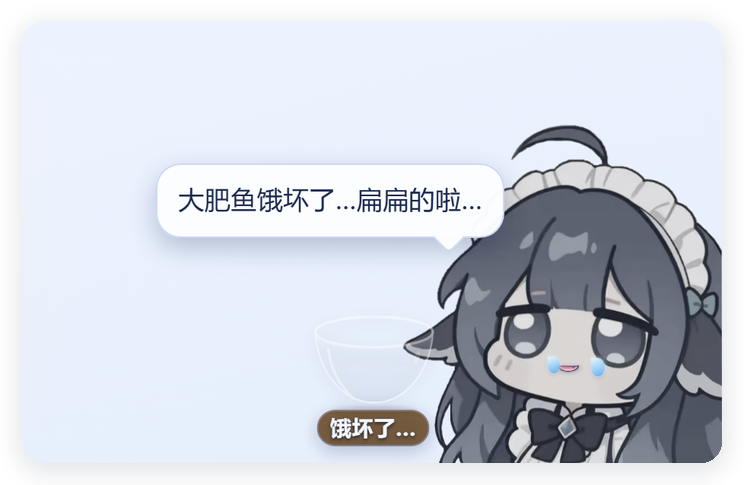
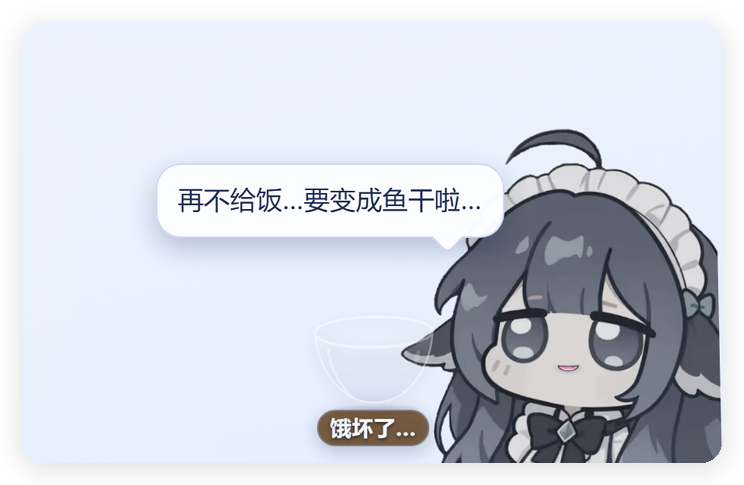
feat: v0.5.5 去掉饿坏了的眼泪（保留灰度/耷拉/标签）

diff --git a/assets/client.js b/assets/client.js
@@ -209,7 +209,6 @@
     starveTimer: null,
     starveLoop: null,
     lastStarve: '',
-    starveDrops: [],
     bubbleTimer: null,
     riceTimer: null,
     pourTimer: null,
@@ -913,36 +912,7 @@
     if (rt.layer) rt.layer.classList.remove('dshwr-beg', 'dshwr-starving');
     var img = hungerImg();
     if (img) img.classList.remove('dshwr-beg-img', 'dshwr-starve-img');
-    removeStarveDrops();
     if (rt.mounted && !rt.eatBusy && !rt.eatQueue.length) setLabel(liveRemain());
-  }
-
-  function removeStarveDrops() {
-    if (!rt.starveDrops || !rt.starveDrops.length) return;
-    for (var i = 0; i < rt.starveDrops.length; i++) {
-      var el = rt.starveDrops[i];
-      if (el && el.parentNode) el.parentNode.removeChild(el);
-    }
-    rt.starveDrops = [];
-  }
-
-  /** 饿坏了：在眼睛下面挂两滴小眼泪 */
-  function spawnStarveDrops() {
-    if (!rt.layer || !rt.els || !rt.mounted) return;
-    removeStarveDrops();
-    layoutMouth();
-    if (!rt.mouth) return;
-    for (var i = 0; i < 2; i++) {
-      var el = document.createElement('span');
-      el.className = 'dshwr-starve-drop';
-      var dx = (i === 0 ? -0.78 : 0.78) * rt.mouth.w;
-      var dy = -rt.mouth.h * (i === 0 ? 0.9 : 0.75);
-      el.style.left = (rt.mouth.x + dx).toFixed(1) + 'px';
-      el.style.top = (rt.mouth.y + dy).toFixed(1) + 'px';
-      el.style.animationDelay = (i * 1.15).toFixed(2) + 's';
-      rt.layer.appendChild(el);
-      rt.starveDrops.push(el);
-    }
   }
 
   function hungerImg() {
@@ -1013,7 +983,6 @@
       img.classList.remove('dshwr-beg-img');
       img.classList.add('dshwr-starve-img');
     }
-    spawnStarveDrops();
     setLabel(0);
     starvePulse();
     if (rt.starveLoop) clearInterval(rt.starveLoop);
@@ -1320,7 +1289,7 @@
     if (!rt.els) return;
     var remaining = liveRemain();
     var tank = tankOf(activeSid());
-    var html = '<div class="dshwr-set-title"><span class="dshwr-unflip">白饭预言家</span><small>v0.5.4</small></div>';
+    var html = '<div class="dshwr-set-title"><span class="dshwr-unflip">白饭预言家</span><small>v0.5.5</small></div>';
     html += setRow('begging', '没饭时讨饭', rt.settings.begging);
     html += setRow('eat', '吃饭动作（嘴 / 嚼）', rt.settings.eat);
     html += setRow('sound', '吃饭音效', rt.settings.sound);

diff --git a/assets/client.css b/assets/client.css
@@ -815,23 +815,6 @@
   32% { transform: translateY(2.1%) rotate(-1.9deg); }
   68% { transform: translateY(2.6%) rotate(1.7deg); }
 }
-.dshwr-starve-drop {
-  position: absolute;
-  z-index: 9;
-  width: 0.5em;
-  height: 0.7em;
-  border-radius: 0 62% 62% 62%;
-  background: linear-gradient(160deg, #eaf8ff, #8ac9f8 65%, #5fa9ee);
-  box-shadow: 0 0 0.14em rgba(255, 255, 255, 0.95), 0 0.05em 0.14em rgba(40, 90, 160, 0.4);
-  opacity: 0.92;
-  pointer-events: none;
-  animation: dshwr-starve-drop 2.4s ease-in infinite;
-}
-@keyframes dshwr-starve-drop {
-  0% { opacity: 0.92; transform: translateY(0) scale(0.9); }
-  65% { opacity: 0.8; transform: translateY(0.62em) scale(1); }
-  100% { opacity: 0; transform: translateY(1.15em) scale(1); }
-}
 .dshwr-starving .dshwr-bowl-svg {
   opacity: 0.5;
   filter: saturate(0.4);

diff --git a/README.md b/README.md
@@ -72,7 +72,7 @@ dsh plugin --profile web add link:C:/path/to/dsh-whale-ricebowl
 2. **每轮**：DSH `turn/start` 后鲸鱼开始干活；真实 token 到账时它张嘴吃饭，米饭一点点变少。
 3. **每轮结束**：`turn/end` 后气泡报账，例如「这轮吃了 5.4K · 剩 3 碗」；短回合也会补演至少一口再报账。
 4. **多碗**：1 碗 = 100 万 token；主碗 + 最多 4 个碗位 = 最多显示 5 碗（碗位和主碗**放在同一条桌面水平线上**，排在主碗**左侧**、向左延伸；打开装饭菜单时会自动隐藏）；超过 5 碗继续记账但 UI 不变；下方标签显示剩余碗数。
-5. **讨饭 → 饿坏了**：剩 0 时自动讨饭——先讨饭 **10 次**（立绘上浮 / 歪头、张嘴「啊——」、气泡间隔出现 / 消失，文案随机且不连续两次相同）；之后安静等 **10 分钟**，自然过渡成「**饿坏了**」：立绘发灰耷拉、慢悠悠地晃，眼睛下面挂两滴小眼泪、标签变成「饿坏了…」，气泡变得有气无力；随时点碗加饭，喂饭就立刻恢复正常。
+5. **讨饭 → 饿坏了**：剩 0 时自动讨饭——先讨饭 **10 次**（立绘上浮 / 歪头、张嘴「啊——」、气泡间隔出现 / 消失，文案随机且不连续两次相同）；之后安静等 **10 分钟**，自然过渡成「**饿坏了**」：立绘发灰耷拉、慢悠悠地晃，标签变成「饿坏了…」，气泡也变得有气无力；随时点碗加饭，喂饭就立刻恢复正常。
 6. **设置**：右键饭碗 → 开关「没饭时讨饭 / 吃饭动作（嘴 / 嚼）/ 吃饭音效 / 米粒特效 / 数字标签」，查看「本对话饭账」（已装 / 已吃 / 剩），或「清空饭账」。
 7. **刷新 / 重启**：饭账存在浏览器 localStorage；资源都是 `no-store`，改样式刷新页面即可。
 

diff --git a/docs/tech-notes.md b/docs/tech-notes.md
@@ -58,7 +58,7 @@ v0.5.0 的做法：
 
 * 触发：`updateBegging()` 在有饭量 / 正在吃饭 / 回合进行中时停掉；否则（`settings.begging` 开启且剩余 ≤ 0）先等 `begDelayMs`（9s），之后每 `begIntervalMs`（7s）来一次 `begPulse()`。
 * **前 10 次**（`begTimes`）：每次气泡显示 `begShowMs` 并自动消失；同时给宿主 `img` 临时加 `.dshwr-beg-img`（上浮 / 歪头 1.7s）、层上加 `.dshwr-beg`（碗发光 1.5s）、嘴张开「啊——」0.9s。文案从 `lines.beg` 随机取，且不连续重复（`rt.lastBeg`）。
-* 10 次之后：停止气泡，安静等待 `starveDelayMs`（默认 10 分钟），然后 `enterStarving()`：层上加 `.dshwr-starving`、`img` 加 `.dshwr-starve-img`（变灰 + 慢悠悠耷拉晃动）、眼睛下面挂两滴小眼泪（`.dshwr-starve-drop`，由 `spawnStarveDrops()` 按嘴部坐标生成）、标签变成「饿坏了…」、气泡换成 `lines.starve` 池、间隔 `starveIntervalMs`（默认 30s）。
+* 10 次之后：停止气泡，安静等待 `starveDelayMs`（默认 10 分钟），然后 `enterStarving()`：层上加 `.dshwr-starving`、`img` 加 `.dshwr-starve-img`（变灰 + 慢悠悠耷拉晃动）、标签变成「饿坏了…」、气泡换成 `lines.starve` 池、间隔 `starveIntervalMs`（默认 30s）。
 * 加饭 / 重新有饭后 `stopBegging()` 立刻清掉所有定时器、计数和临时类，恢复正常。
 * 没饭时**不再播吃饭动作**：`enqueueEat()` 先看视觉剩余，剩余 ≤ 0 就直接跳过演出（本轮消耗照常记账、报账仍显示「吃完啦」）。
 

diff --git a/README-En.md b/README-En.md
@@ -54,7 +54,7 @@ Desktop (Electron): the host HTML is served statically, so this plugin also regi
 2. **Each turn**: after `turn/start`, real usage makes the whale eat; the rice level drops.
 3. **Turn end**: a bubble reports e.g. "ate 5.4K · 3 bowls left". Short turns are replayed so at least one bite is always shown before the report.
 4. **Bowls**: 1 bowl = 1,000,000 tokens; main bowl + 4 slots = 5 visible bowls max (slots sit on the **same table line** as the main bowl, to its **left**, and hide while the feed menu is open). More than 5 bowls keeps counting but the UI stays the same.
-5. **Begging → starving**: at zero the whale begs 10 times (bobs / tilts, opens its mouth, random bubbles, never the same twice in a row). After that it waits quietly for 10 minutes and then becomes "starving" — desaturated, droopy sway, two little tears, a "starving…" label and weak bubbles. Feed it any time and it recovers instantly.
+5. **Begging → starving**: at zero the whale begs 10 times (bobs / tilts, opens its mouth, random bubbles, never the same twice in a row). After that it waits quietly for 10 minutes and then becomes "starving" — desaturated, droopy sway, a "starving…" label and weak bubbles. Feed it any time and it recovers instantly.
 6. **Settings**: right-click the bowl → toggles (begging / eating animation / sound / rice particles / number label), per-conversation ledger (loaded / eaten / remaining), and "clear ledger".
 7. **Refresh**: the ledger lives in localStorage; assets are served `no-store`.
 

diff --git a/CHANGELOG.md b/CHANGELOG.md
@@ -1,5 +1,10 @@
 # Changelog
 
+## 0.5.5 — 2026-10-18
+
+* 去掉「饿坏了」的眼泪特效（保留灰度、耷拉晃动和「饿坏了…」标签）。
+* 截图同步更新。
+
 ## 0.5.4 — 2026-10-18
 
 * 碗位（小碗图标）和主碗放到**同一条桌面水平线**上，排在主碗左侧，像一排碗放在同一张桌子上。
